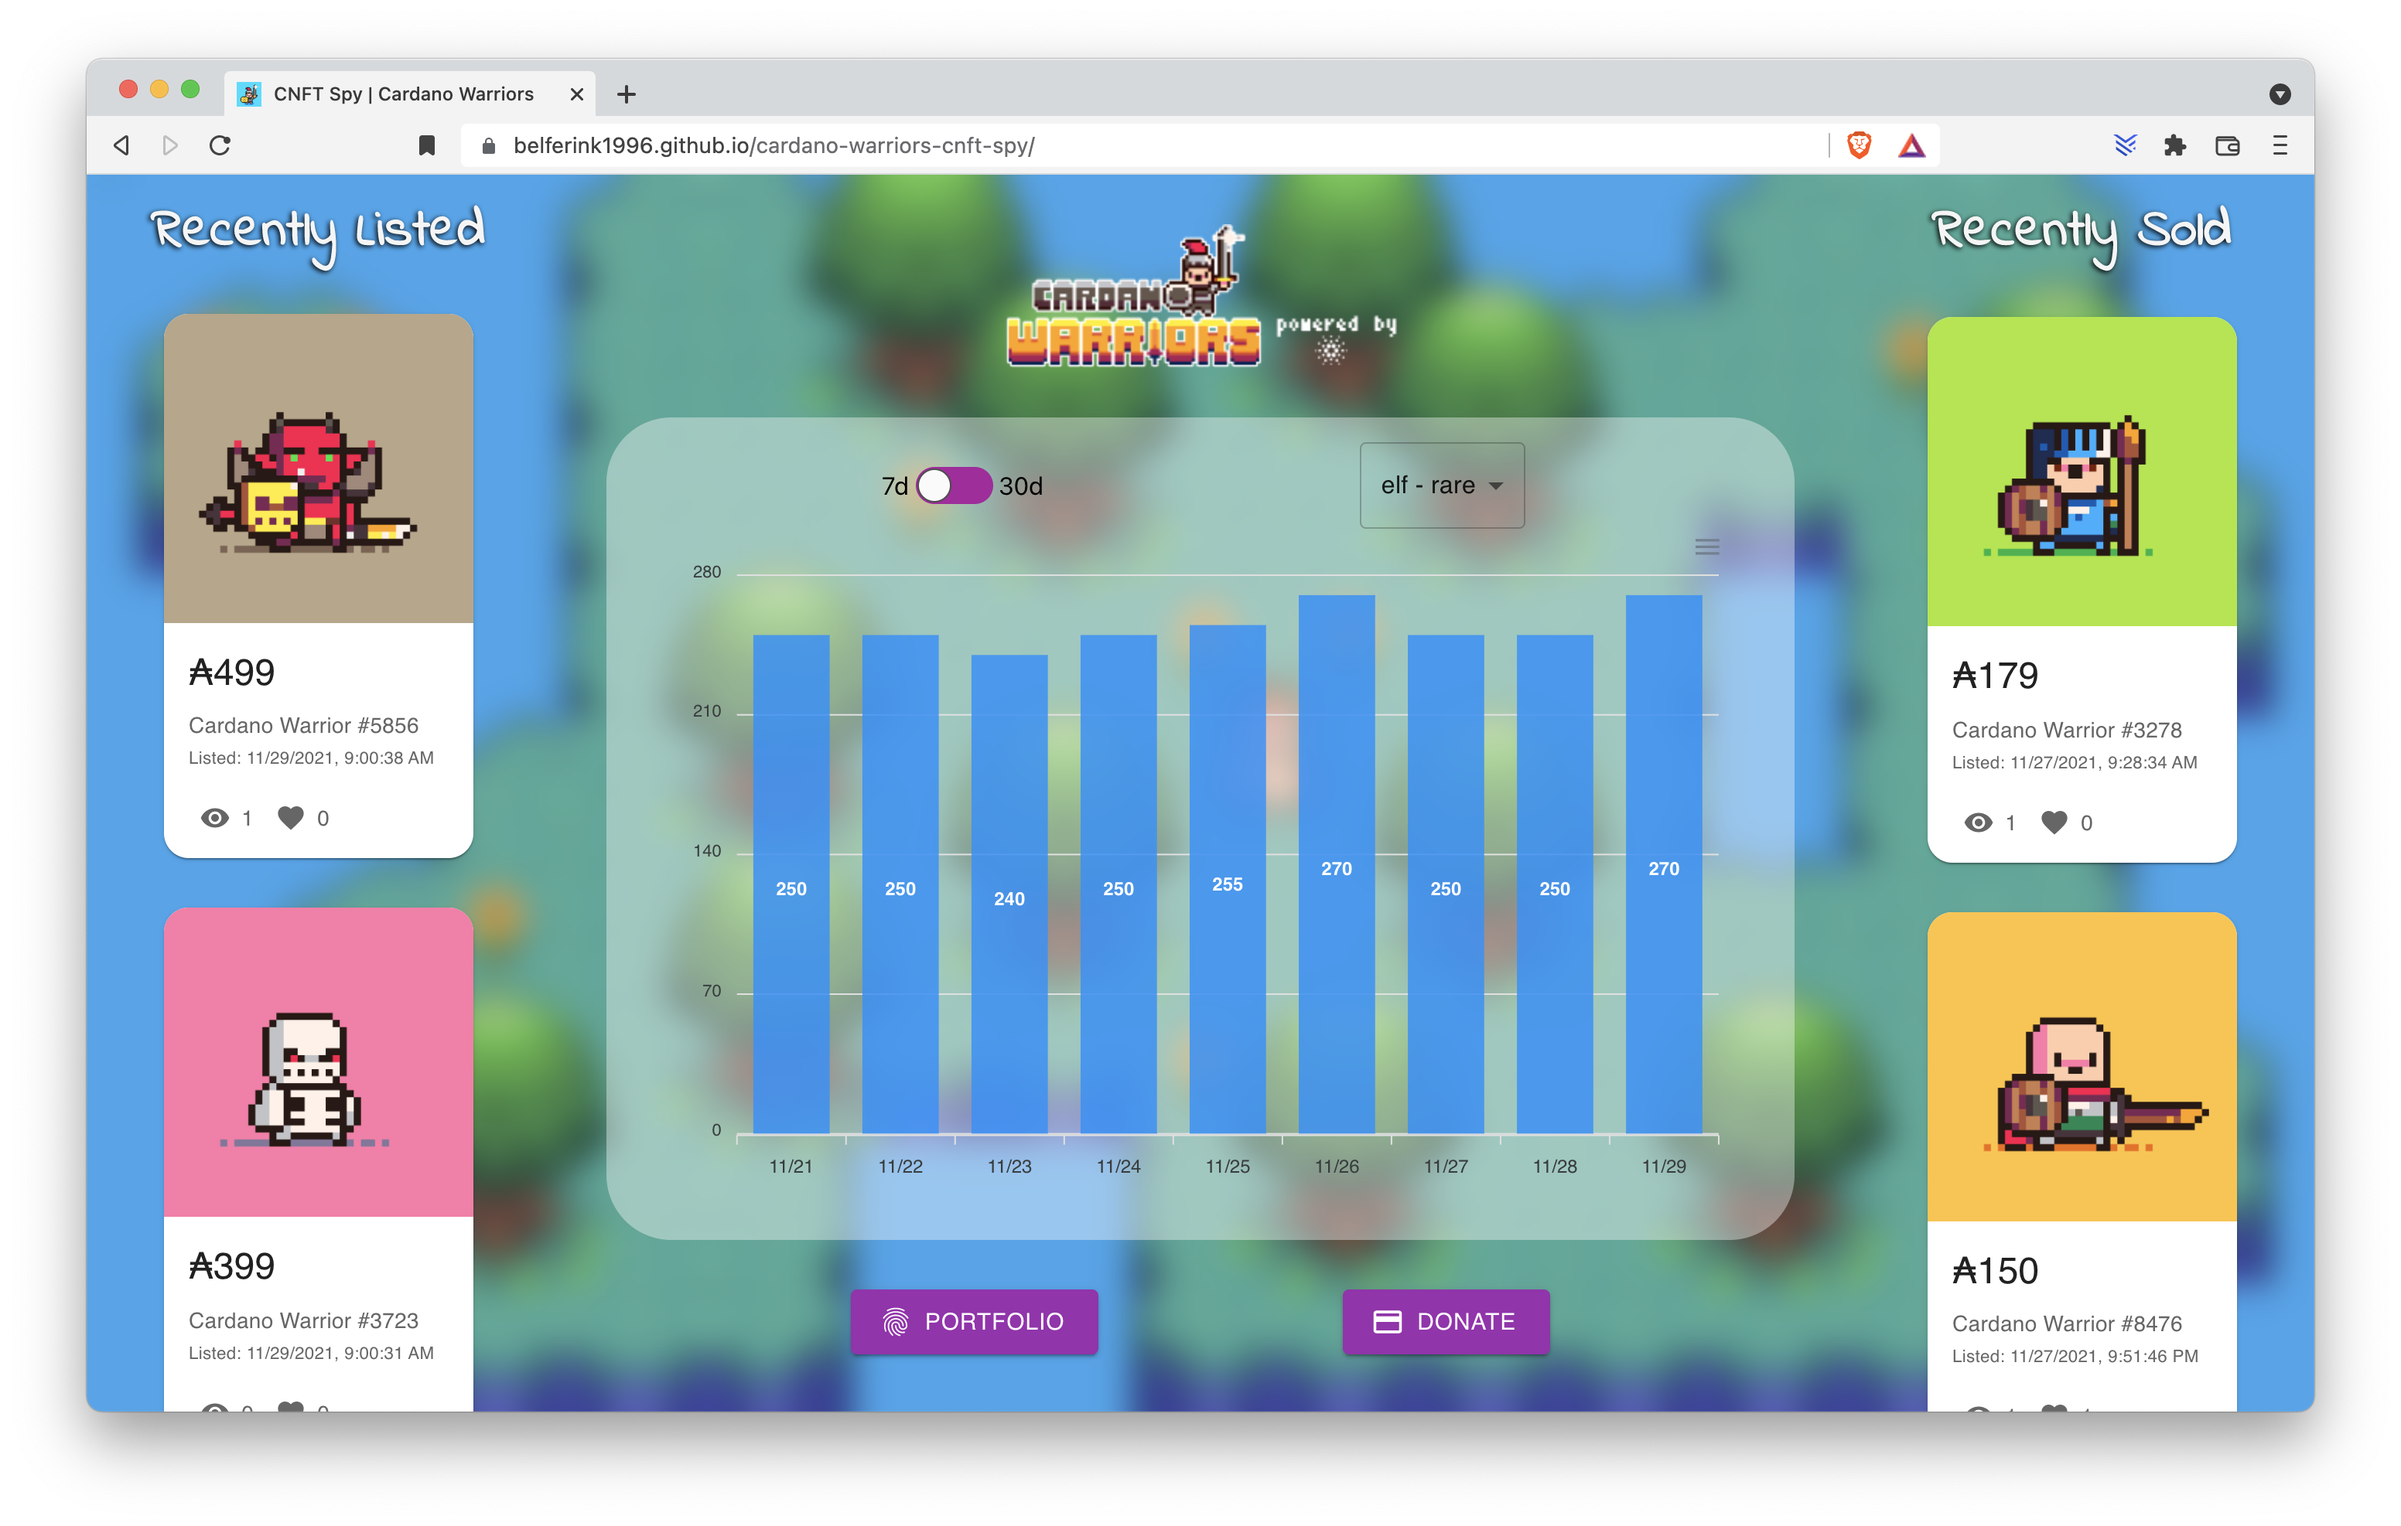
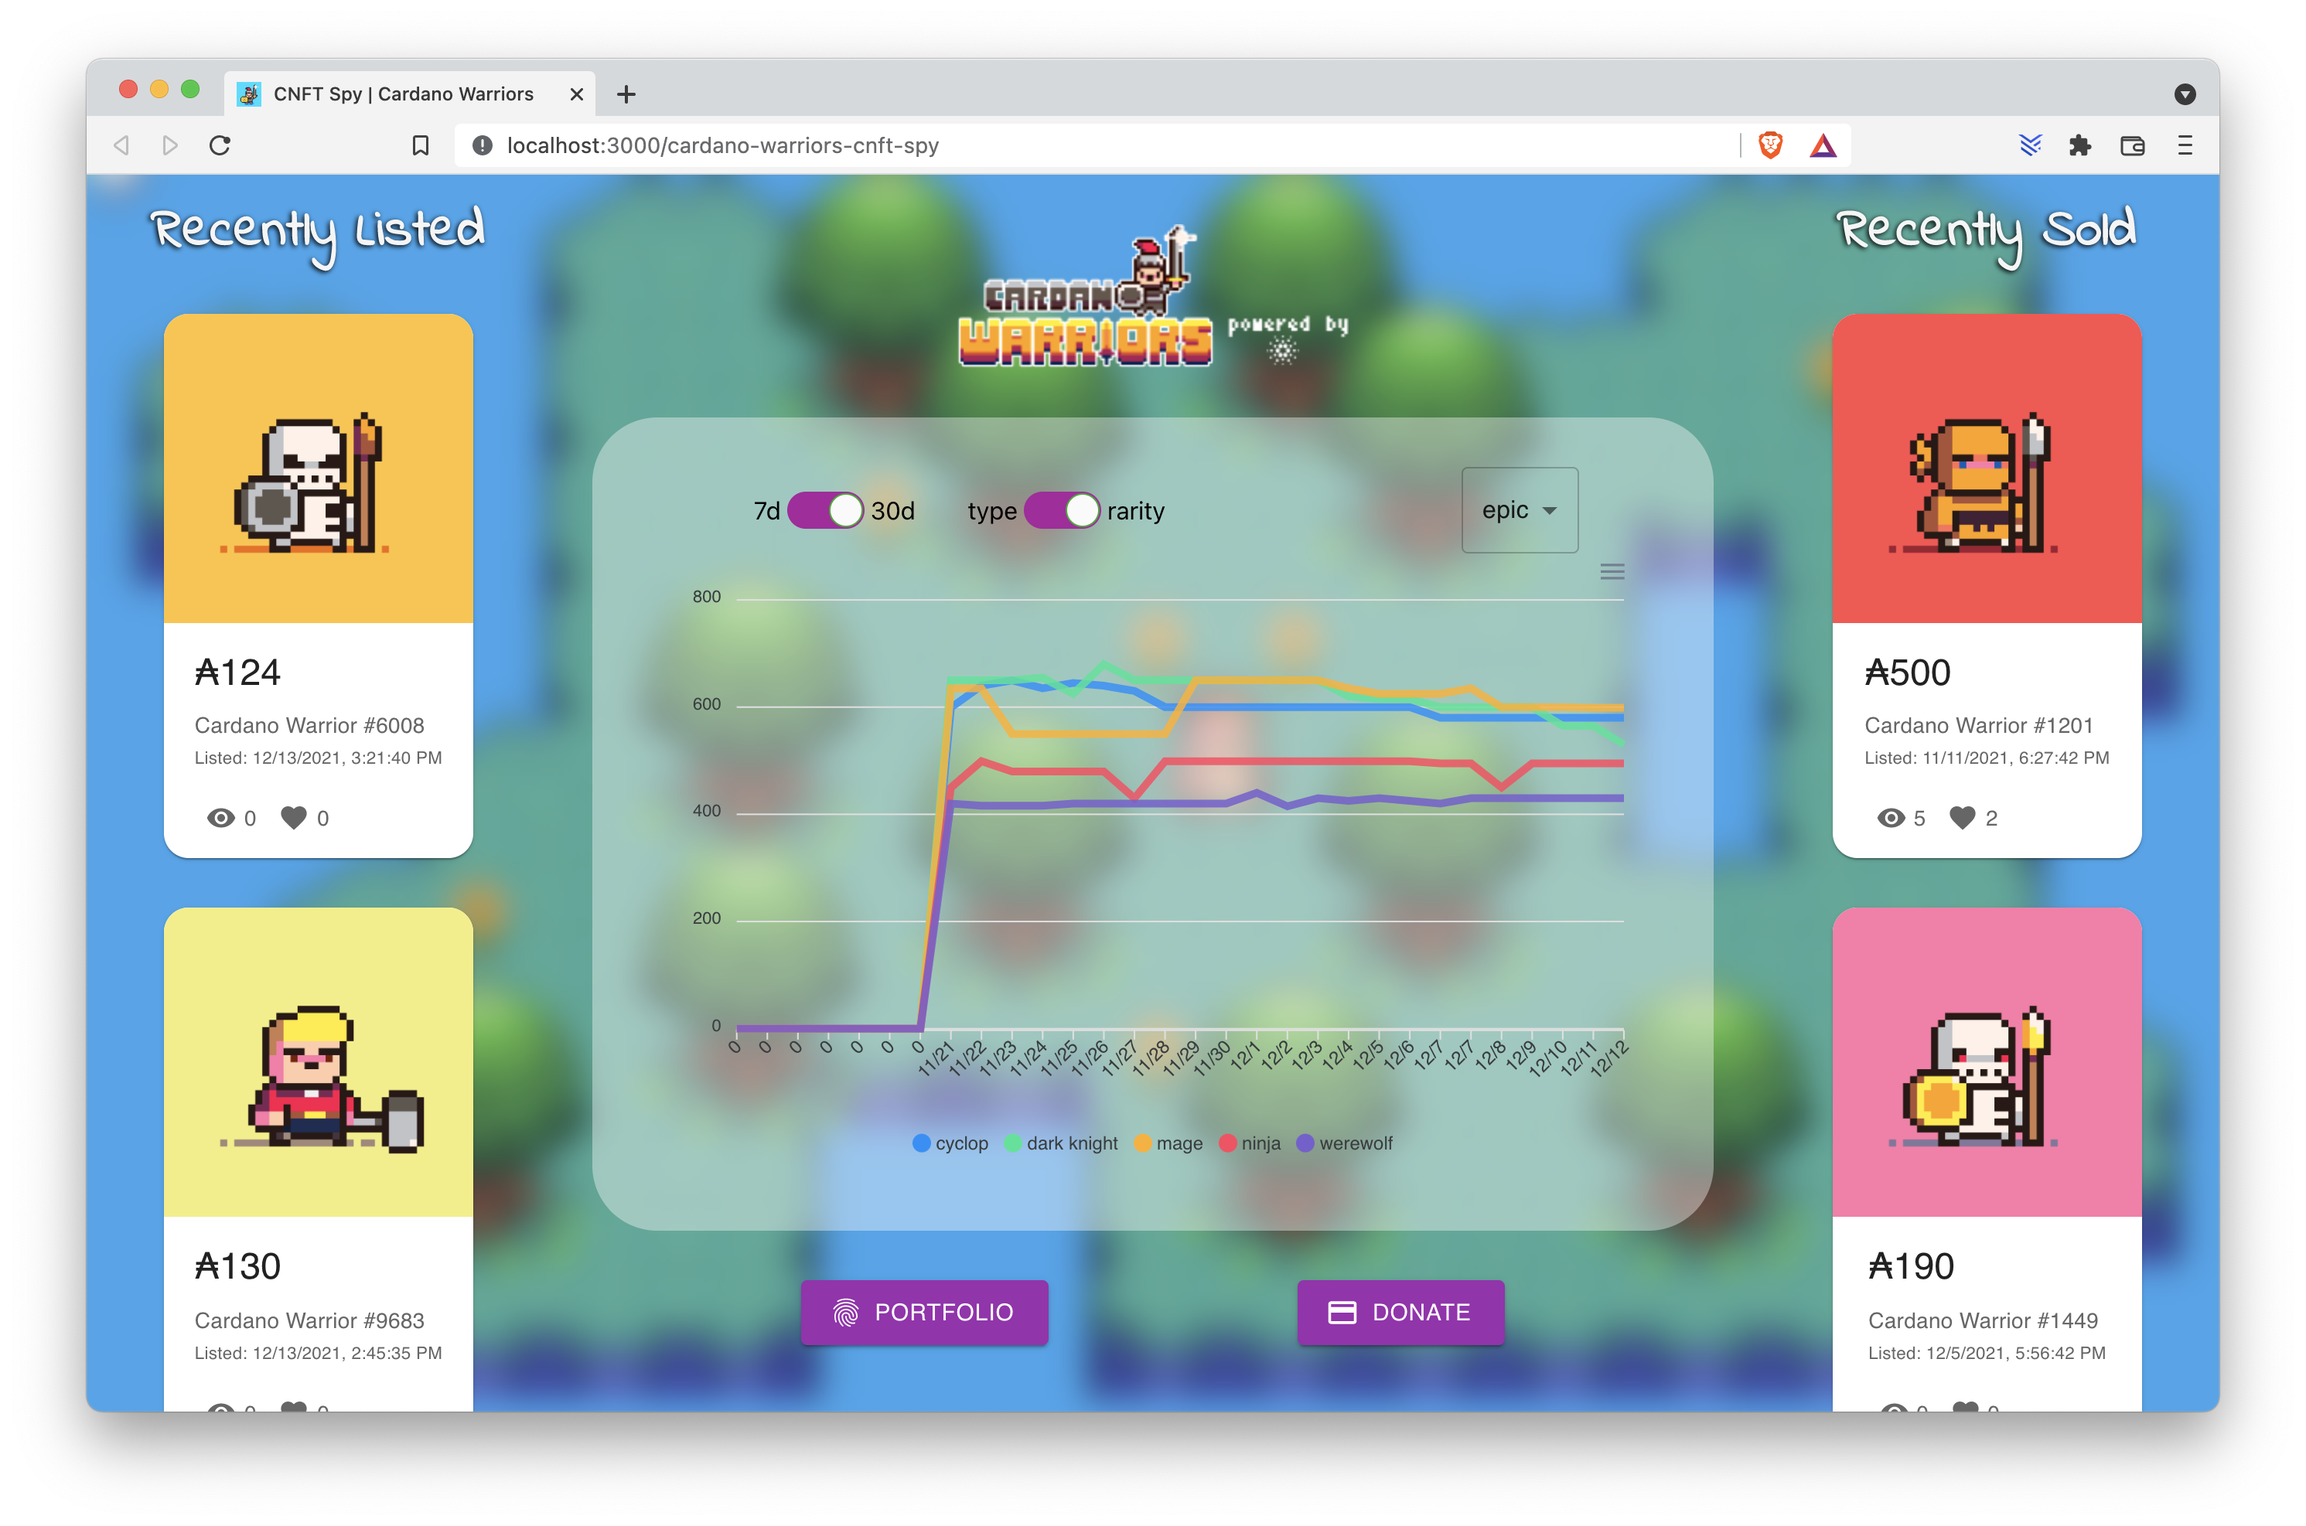
changed charts to lines instead of bars

diff --git a/src/components/Charts.js b/src/components/Charts.js
@@ -4,7 +4,7 @@ import { MenuItem, Select } from '@mui/material'
 import Chart from 'react-apexcharts'
 import Toggle from './Toggle'
 import styles from '../styles/Charts.module.css'
-import { getBarOptions, getRaritySeries, getTypeSeries } from '../functions'
+import { getBarOptions, getLineOptions, getRaritySeries, getTypeSeries } from '../functions'
 
 function Charts({ warriorsData, floorData, isDesktop }) {
   const generateChartWidth = (width = window.innerWidth) => width - (isDesktop ? 750 : 70)
@@ -65,9 +65,9 @@ function Charts({ warriorsData, floorData, isDesktop }) {
       </div>
 
       <Chart
-        type='bar'
         width={chartWidth}
-        options={getBarOptions(floorData, showThirtyDay)}
+        type='line'
+        options={getLineOptions(floorData, showThirtyDay)}
         series={
           showByRarity
             ? getRaritySeries(floorData, warriorsData, selectedRarity, showThirtyDay)

diff --git a/src/components/Portfolio.js b/src/components/Portfolio.js
@@ -207,10 +207,10 @@ function Portfolio({ floorData }) {
             <div style={{ width: '42%' }} />
           </div>
           <Chart
+            width={chartWidth}
+            type='line'
             options={getLineOptions(floorData, showThirtyDay)}
             series={getPortfolioSeries(floorData, assets, showThirtyDay)}
-            type='line'
-            width={chartWidth}
           />
         </section>
 
